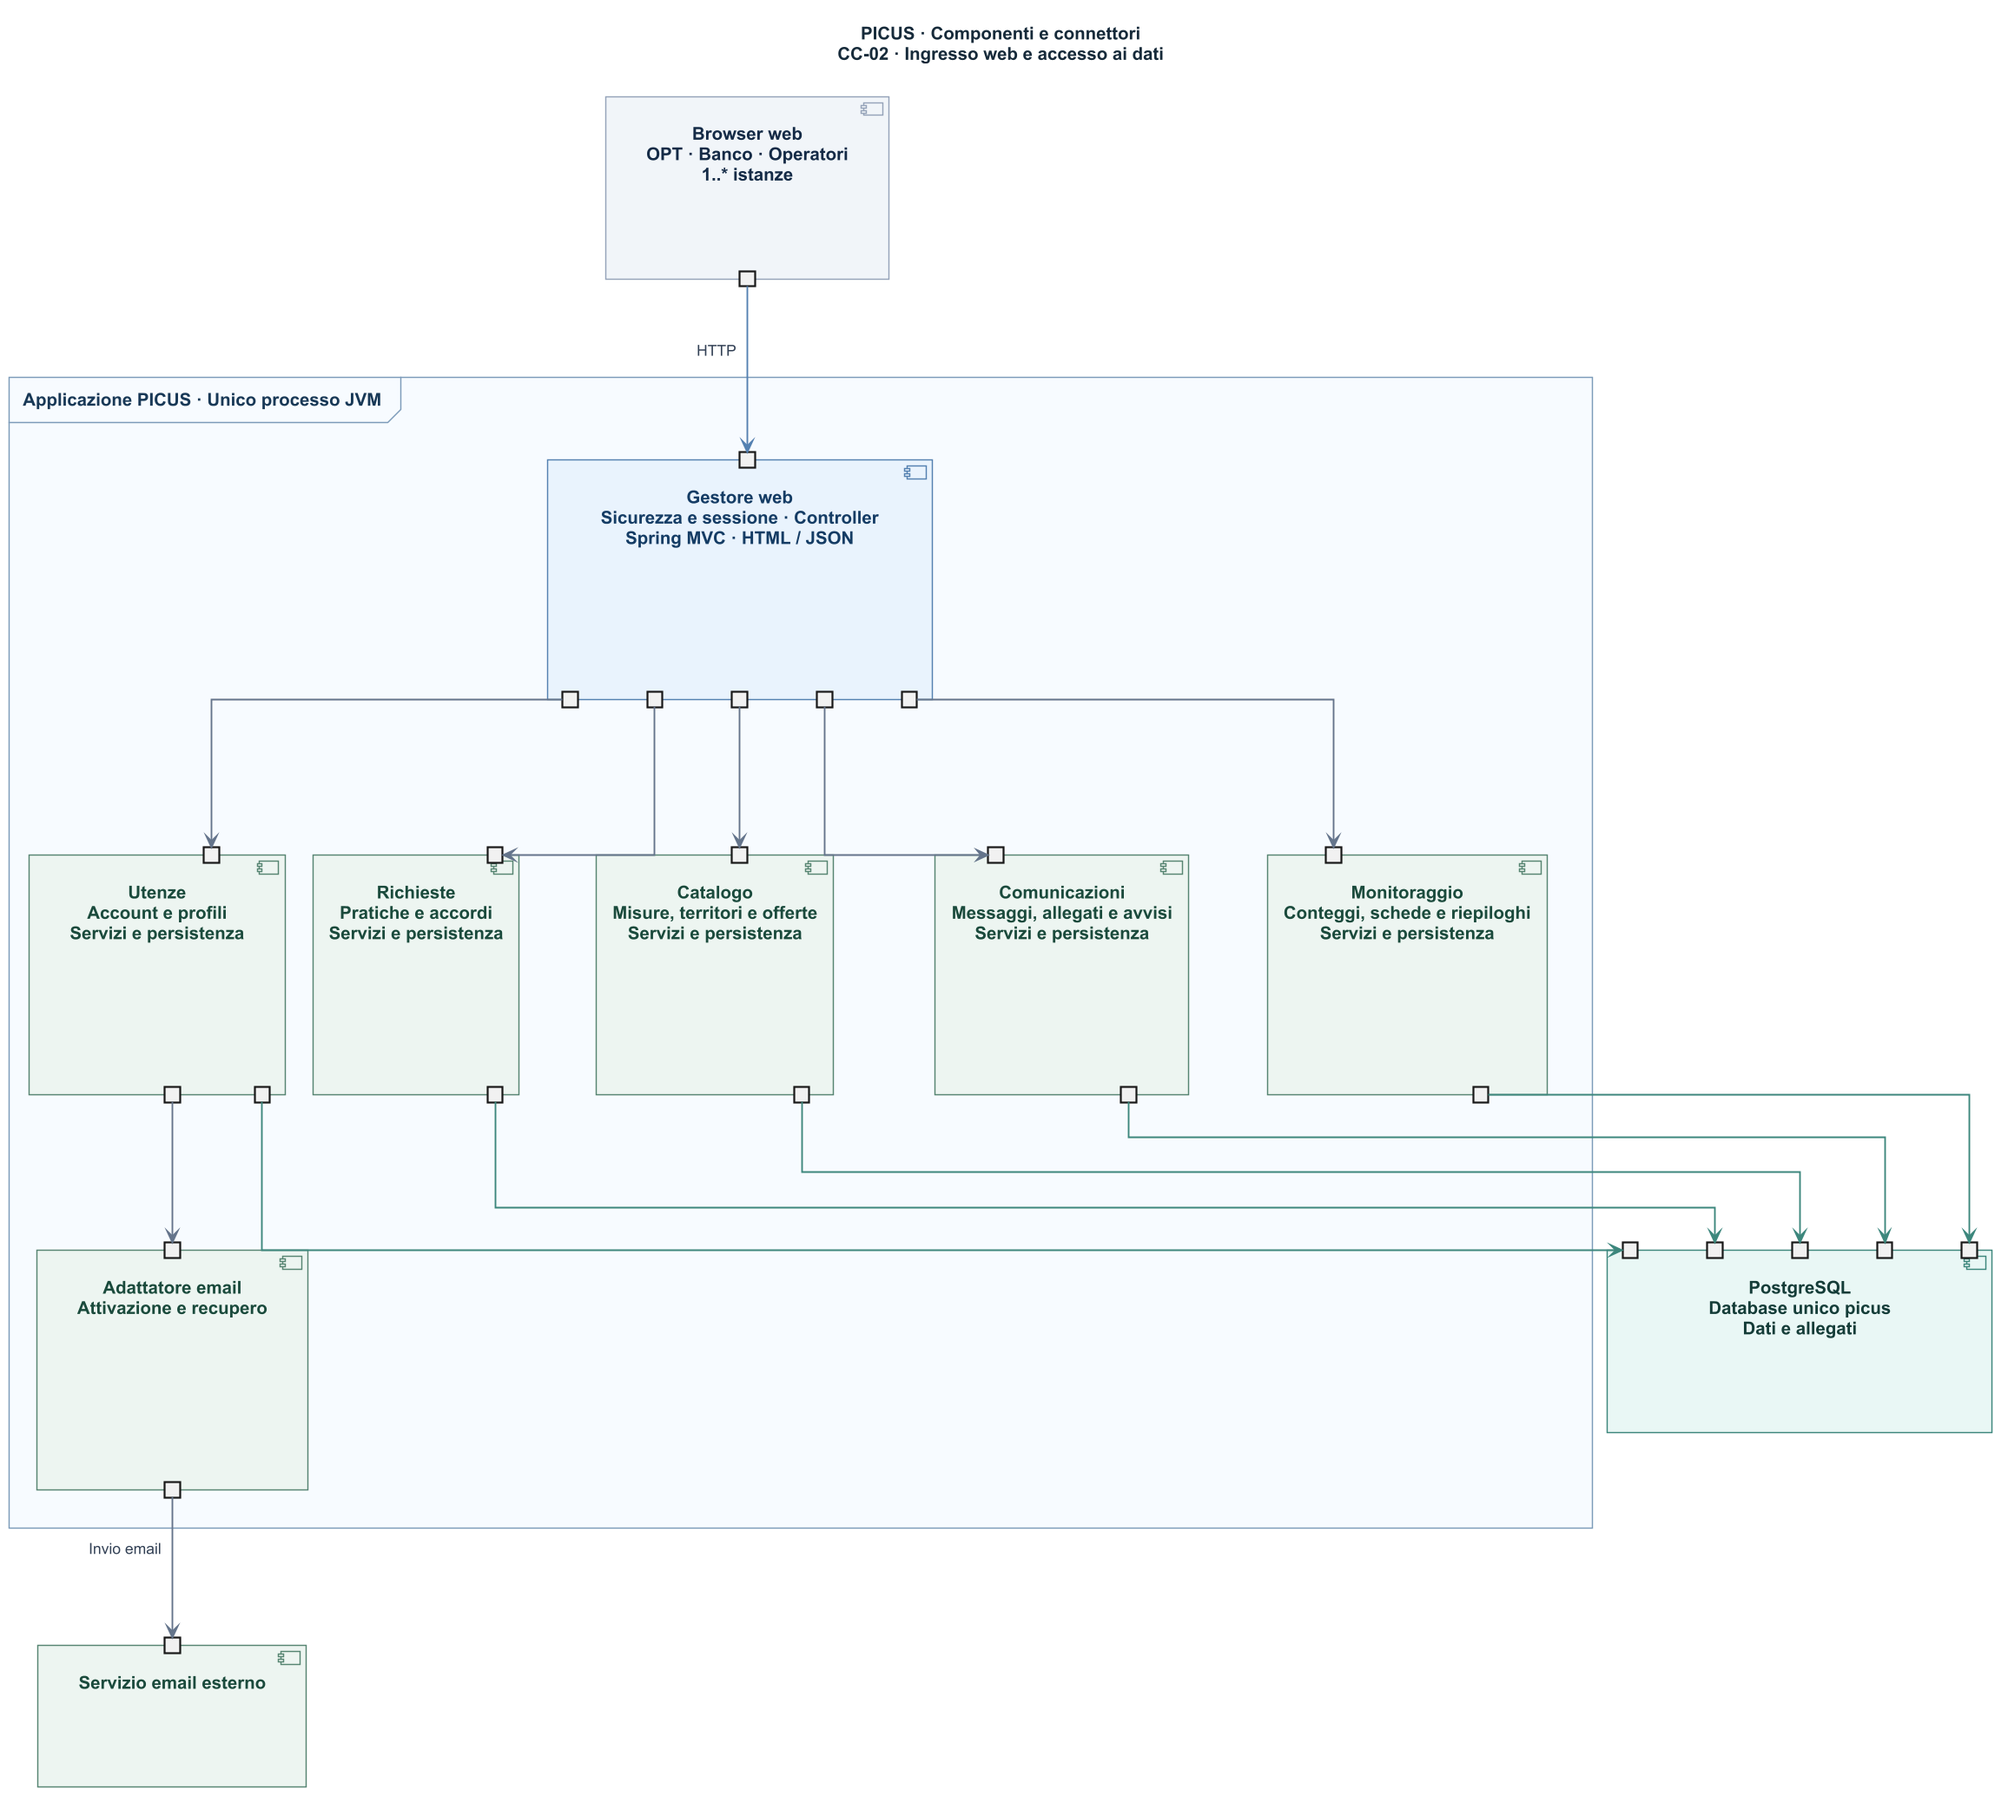
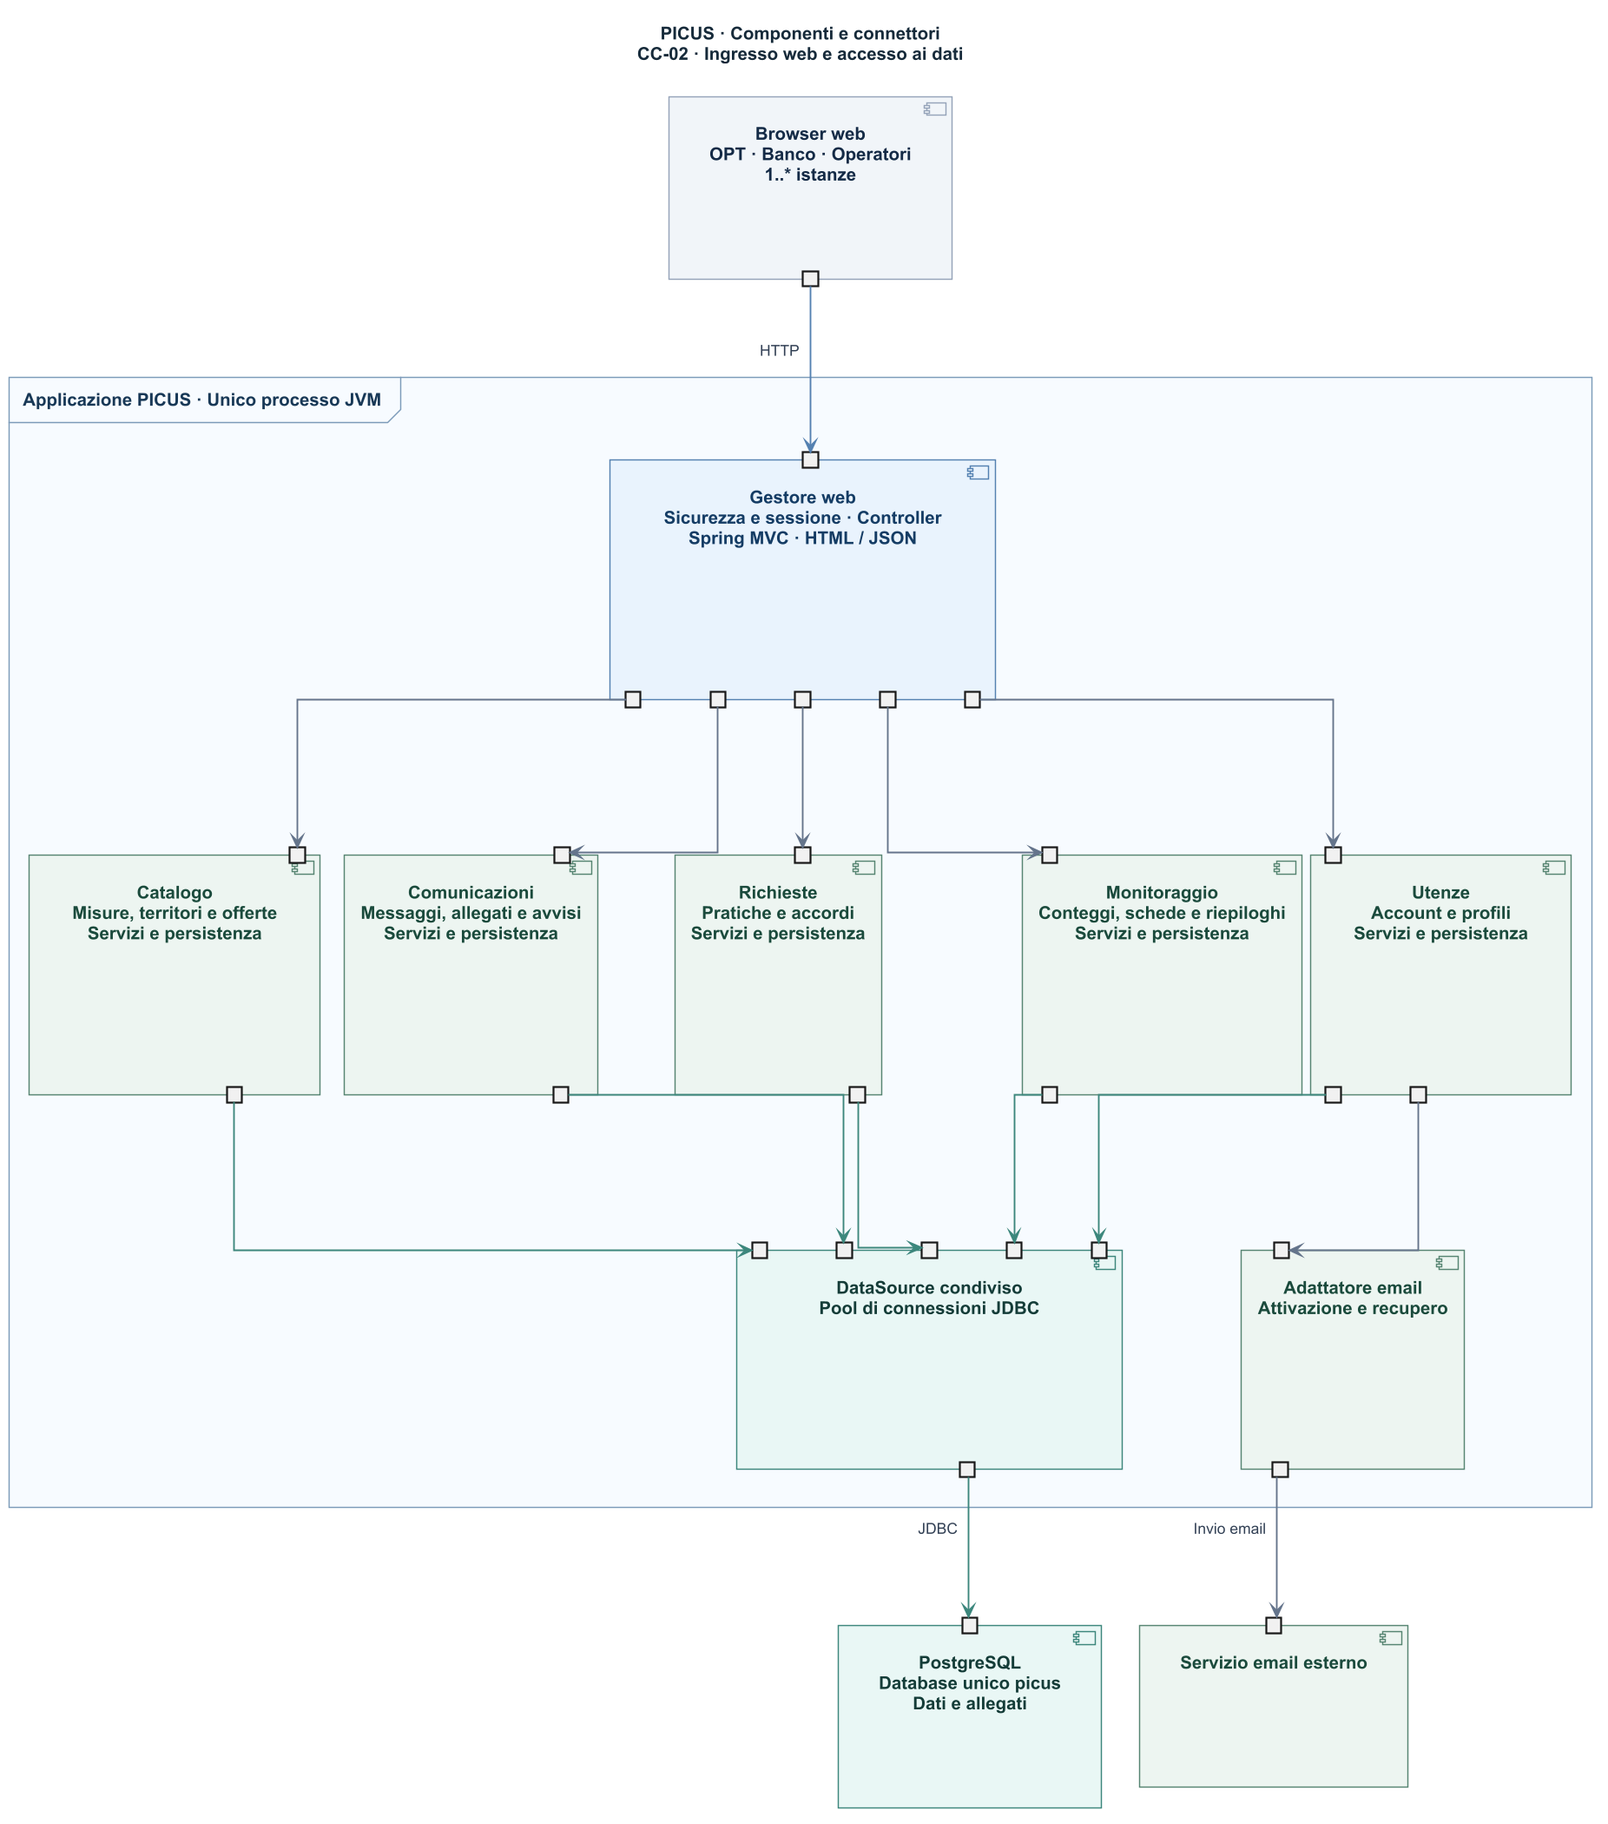
docs(architecture): documenta il collegamento PostgreSQL condiviso

diff --git a/docs/architecture/README.md b/docs/architecture/README.md
@@ -34,7 +34,7 @@ accesso JDBC al database e invio email.
 
 **CC-02 · Ingresso web e accesso ai dati.** Apre il componente applicazione
 di CC-01 e mostra i collegamenti del Gestore web con i cinque componenti
-funzionali, i rispettivi accessi al database e l'adattatore email di Utenze.
+funzionali, il DataSource condiviso e l'adattatore email di Utenze.
 Il Gestore web raggruppa sicurezza, sessione, dispatcher, controller e
 produzione delle risposte HTML/JSON. Ogni componente funzionale comprende
 i propri servizi applicativi, le regole di dominio e gli adattatori di
@@ -65,17 +65,16 @@ Le invocazioni sono sincrone e usano i contratti riportati sotto.
   componenti applicativi, verde acqua per il database.
 
 In CC-02 i connettori blu rappresentano HTTP, quelli grigi le chiamate Java
-e quelli verde acqua gli accessi JDBC. In CC-03 tutte le chiamate Java
-usano connettori grigi. I connettori usano solo segmenti orizzontali e
-verticali, con angoli retti,
-porte separate e percorsi senza sovrapposizioni. Le spiegazioni e i contratti sono raccolti qui;
-i diagrammi contengono componenti, porte, connettori e relative etichette.
+e quelli verde acqua gli accessi ai dati. In CC-03 tutte le chiamate Java
+usano connettori grigi. I connettori seguono segmenti orizzontali e verticali
+con angoli retti, porte separate e percorsi senza sovrapposizioni. I diagrammi
+contengono componenti, porte, connettori e relative etichette.
 
 | Connettore | Ruoli e scambi |
 | --- | --- |
 | HTTP | Browser client e applicazione server; richieste, HTML/JSON, file, risorse statiche e sessione. |
 | Chiamata Java | Invocante e fornitore nella stessa JVM; identità verificata, comandi, DTO e risultati. |
-| JDBC | Adattatore di persistenza del gestore e PostgreSQL; accesso ai dati tramite Hibernate e pgJDBC. |
+| Accesso ai dati | Gli adattatori JPA usano Hibernate e il DataSource condiviso. Il DataSource gestisce le connessioni a PostgreSQL tramite pgJDBC. |
 | Invio email | Adattatore di Utenze e servizio esterno; link di attivazione e recupero dell'account. |
 
 ### Collaborazioni interne
@@ -96,10 +95,13 @@ i diagrammi contengono componenti, porte, connettori e relative etichette.
 | Utenze → adattatore email | Invio dei link di attivazione e recupero. |
 
 Ciascuno dei cinque componenti funzionali accede alle proprie entità e
-tabelle tramite la propria persistenza. I collegamenti a PostgreSQL rappresentano questi
-accessi distinti allo stesso database, che conserva anche file e metadati
-degli allegati. Gli altri gestori usano le API del proprietario dei dati.
-Le entità JPA restano interne; i contratti scambiano DTO e identificativi.
+tabelle tramite il proprio adattatore di persistenza. In CC-02 i cinque
+collegamenti convergono nel DataSource condiviso nella JVM. Un solo
+connettore JDBC rappresenta l'accesso all'endpoint PostgreSQL, sulla porta
+`5432` nell'ambiente Docker Compose. Il database conserva anche file e
+metadati degli allegati. Gli altri gestori usano le API del proprietario
+dei dati. Le entità JPA restano interne e i contratti scambiano DTO e
+identificativi.
 
 Sicurezza e sessione sono verificate all'ingresso web. I servizi applicativi
 controllano ruolo, titolarità e assegnazione sulle singole risorse. La
